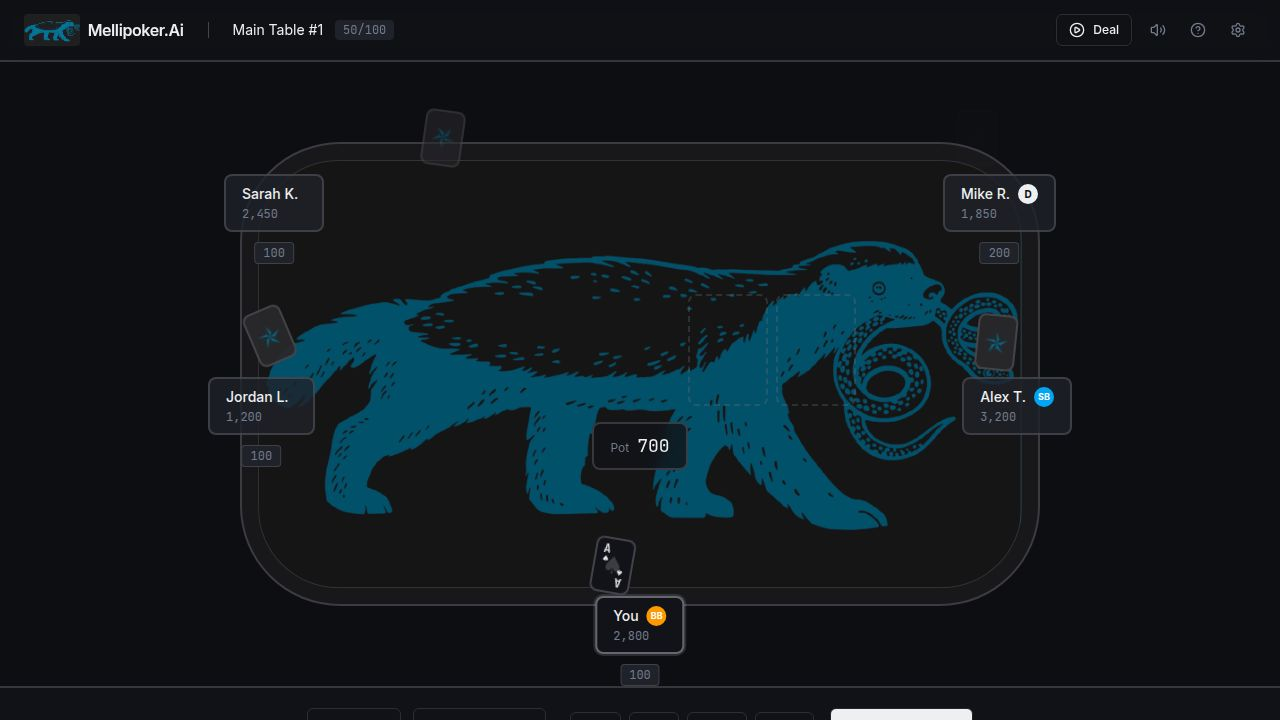
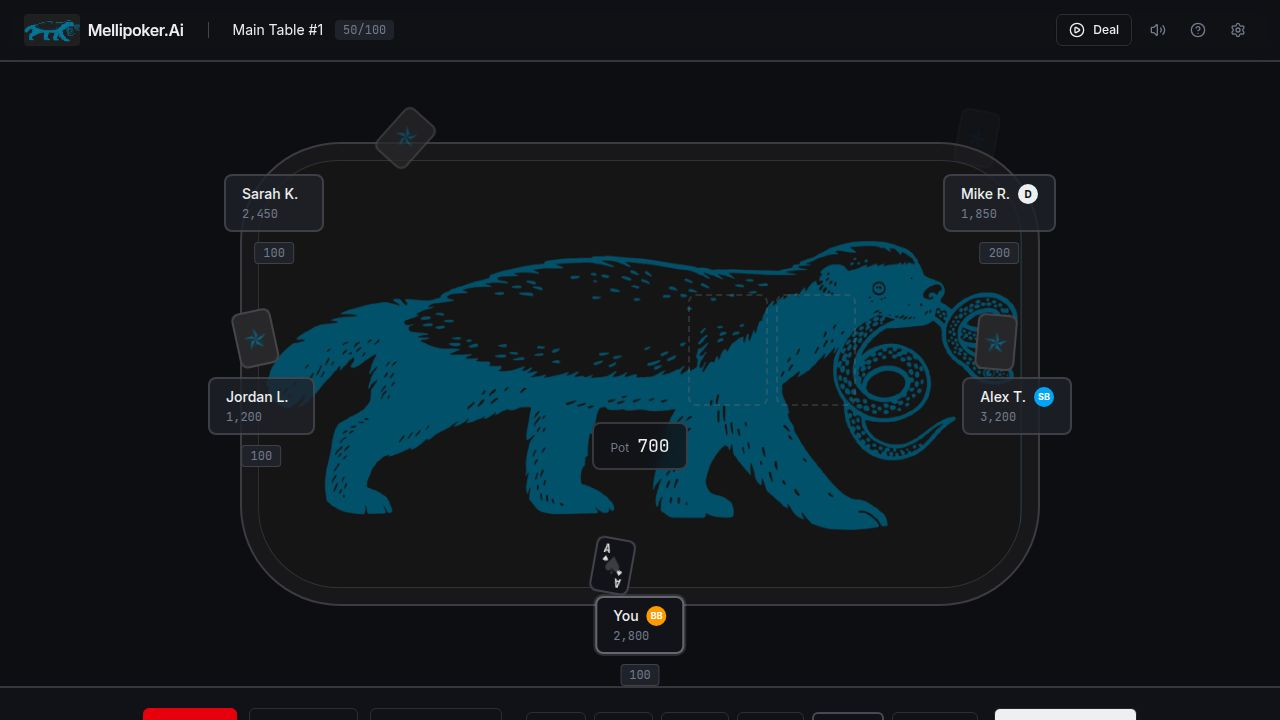
Rotate dealer and blind positions clockwise after each hand
Update client/src/pages/home.tsx to dynamically manage and rotate dealer, small blind, and big blind positions using state and a position order array. The mock player data is refactored to rely on a getPlayerRoles function, removing hardcoded role assignments.

Replit-Commit-Author: Agent
Replit-Commit-Session-Id: 47ab11c7-c52f-4ec9-84f8-0a3c9aca094e
Replit-Commit-Checkpoint-Type: full_checkpoint
Replit-Commit-Event-Id: 56d0284e-329e-4abe-9737-ec2e336ca2db
Replit-Commit-Screenshot-Url: https://storage.googleapis.com/screenshot-production-us-central1/c8dc1b2f-1d81-46f0-ad9c-c97b76d88dee/47ab11c7-c52f-4ec9-84f8-0a3c9aca094e/fgBFqmI
Replit-Helium-Checkpoint-Created: true

diff --git a/client/src/pages/home.tsx b/client/src/pages/home.tsx
@@ -21,9 +21,6 @@ const mockPlayers = [
       { suit: "heart" as Suit, rank: "K" as Rank },
     ],
     isActive: false,
-    isDealer: false,
-    isBigBlind: false,
-    isSmallBlind: false,
     isFolded: false,
     bet: 100,
     position: "top-left" as const,
@@ -38,9 +35,6 @@ const mockPlayers = [
       { suit: "diamond" as Suit, rank: "Q" as Rank },
     ],
     isActive: false,
-    isDealer: true,
-    isBigBlind: false,
-    isSmallBlind: false,
     isFolded: false,
     bet: 200,
     position: "top-right" as const,
@@ -55,9 +49,6 @@ const mockPlayers = [
       { suit: "heart" as Suit, rank: "10" as Rank },
     ],
     isActive: false,
-    isDealer: false,
-    isBigBlind: false,
-    isSmallBlind: true,
     isFolded: false,
     bet: 0,
     position: "right" as const,
@@ -72,9 +63,6 @@ const mockPlayers = [
       { suit: "spade" as Suit, rank: "K" as Rank },
     ],
     isActive: true,
-    isDealer: false,
-    isBigBlind: true,
-    isSmallBlind: false,
     isFolded: false,
     bet: 100,
     position: "bottom" as const,
@@ -89,9 +77,6 @@ const mockPlayers = [
       { suit: "club" as Suit, rank: "8" as Rank },
     ],
     isActive: false,
-    isDealer: false,
-    isBigBlind: false,
-    isSmallBlind: false,
     isFolded: false,
     bet: 100,
     position: "left" as const,
@@ -105,14 +90,29 @@ const mockCommunityCards: Card[] = [
   { suit: "spade", rank: "2" },
 ];
 
+const positionOrder = ["top-left", "top-right", "right", "bottom", "left"] as const;
+
 export default function Home() {
   const [pot] = useState(700);
   const [playerChips] = useState(2800);
   const [isDark, setIsDark] = useState(true);
   const [dealKey, setDealKey] = useState(0);
+  const [dealerIndex, setDealerIndex] = useState(1);
 
   const handleDeal = () => {
     setDealKey(prev => prev + 1);
+    setDealerIndex(prev => (prev + 1) % positionOrder.length);
+  };
+
+  const getPlayerRoles = (position: string) => {
+    const posIndex = positionOrder.indexOf(position as typeof positionOrder[number]);
+    const sbIndex = (dealerIndex + 1) % positionOrder.length;
+    const bbIndex = (dealerIndex + 2) % positionOrder.length;
+    return {
+      isDealer: posIndex === dealerIndex,
+      isSmallBlind: posIndex === sbIndex,
+      isBigBlind: posIndex === bbIndex,
+    };
   };
 
   const handleFold = () => {
@@ -144,7 +144,10 @@ export default function Home() {
       <main className="flex-1 flex items-center justify-center p-8">
         <PokerTable
           key={dealKey}
-          players={mockPlayers}
+          players={mockPlayers.map(p => ({
+            ...p,
+            ...getPlayerRoles(p.position),
+          }))}
           communityCards={mockCommunityCards}
           pot={pot}
           isDark={isDark}
